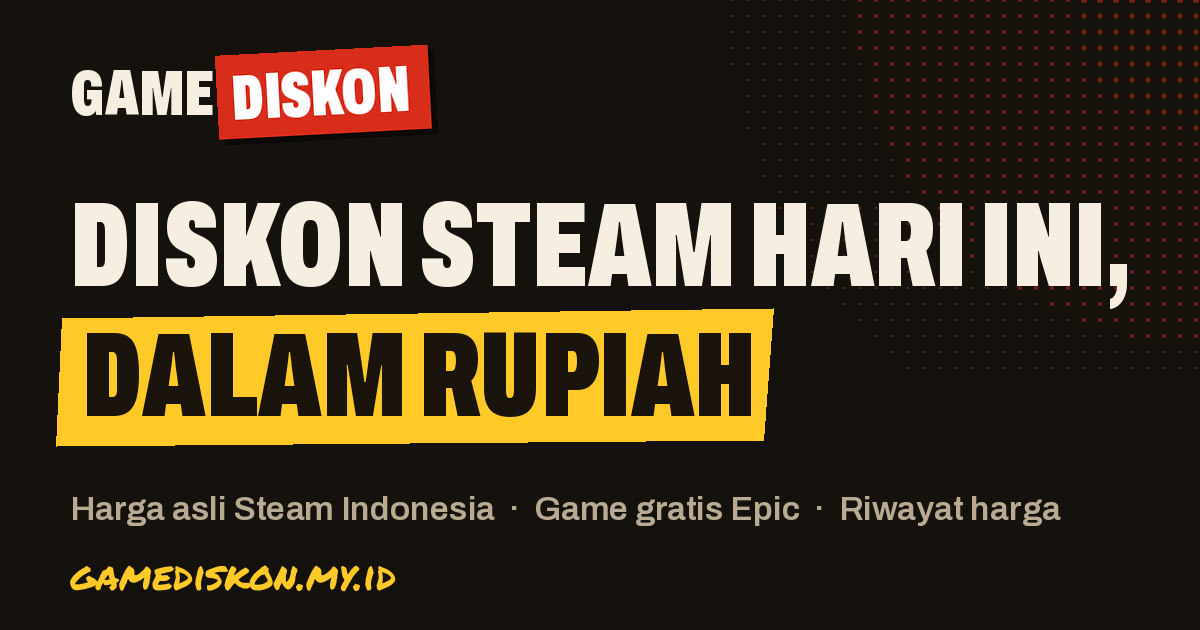
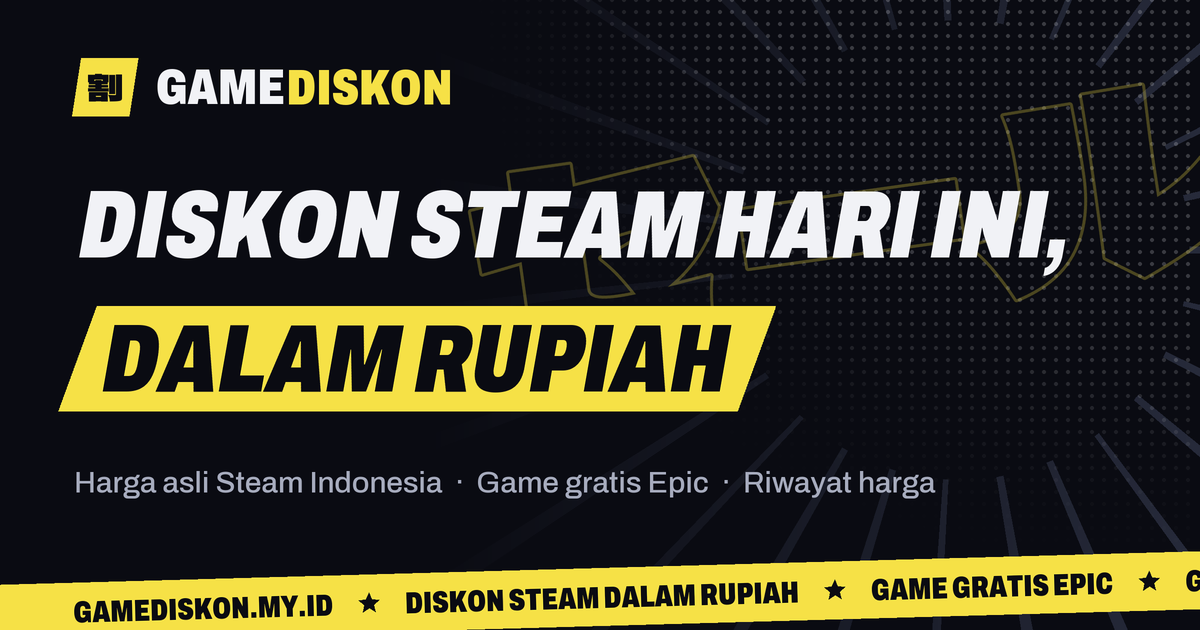
Add files via upload

diff --git a/aset/buat_merek.py b/aset/buat_merek.py
@@ -1,0 +1,262 @@
+"""
+Membuat gambar merek GameDiskon tema "Shonen Sale":
+- og-gamediskon.png (1200x630, gambar pratinjau saat tautan dibagikan)
+- favicon.ico (16/32/48), icon-192.png, apple-touch-icon.png (180)
+
+Jalankan dari akar repo:  python aset/buat_merek.py
+og-gamediskon.png ditulis ke aset/ dan akar repo; ikon ditulis sebagai base64 ke blok IKON di gaya.py.
+Butuh Pillow >= 10 (bisa membaca .woff2) dan font di aset/ + akar repo.
+"""
+
+import base64
+import io
+import math
+import os
+import re
+
+from PIL import Image, ImageChops, ImageDraw, ImageFilter, ImageFont
+
+REPO = os.path.dirname(os.path.dirname(os.path.abspath(__file__)))
+ASET = os.path.join(REPO, "aset")
+
+# Token warna, sama dengan :root di gaya.py
+TINTA = (10, 11, 18)
+TINTA_2 = (18, 20, 30)
+GARIS = (38, 42, 58)
+PUTIH = (241, 242, 246)
+REDUP = (167, 172, 190)
+KUNING = (246, 225, 70)
+
+S = 2  # gambar dibuat 2x lalu diperkecil supaya tepi miring halus
+
+
+def _cari(nama):
+    for folder in (ASET, REPO):
+        path = os.path.join(folder, nama)
+        if os.path.exists(path):
+            return path
+    raise FileNotFoundError(nama)
+
+
+def archivo(ukuran, tebal=900, lebar=74):
+    f = ImageFont.truetype(_cari("archivo-latin.woff2"), ukuran)
+    f.set_variation_by_axes([tebal, lebar])  # urutan sumbu: Weight, Width
+    return f
+
+
+def dela(ukuran):
+    return ImageFont.truetype(_cari("dela-gothic-jp.woff2"), ukuran)
+
+
+def jajar(x, y, w, h, miring):
+    """Jajar genjang seperti --jajar di CSS (sisi kiri & kanan miring)."""
+    return [(x + miring, y), (x + w, y), (x + w - miring, y + h), (x, y + h)]
+
+
+def bintang(draw, cx, cy, r, warna):
+    """Bintang lima sudut berpusat di (cx, cy)."""
+    titik = []
+    for i in range(10):
+        a = math.radians(-90 + i * 36)
+        rr = r if i % 2 == 0 else r * 0.45
+        titik.append((cx + rr * math.cos(a), cy + rr * math.sin(a)))
+    draw.polygon(titik, fill=warna)
+
+
+def miringkan(img, derajat):
+    """skewX ke kanan (atas bergeser ke kanan), pusat di tengah tinggi."""
+    k = math.tan(math.radians(derajat))
+    w, h = img.size
+    tambah = int(abs(k) * h) + 2
+    hasil = Image.new(img.mode, (w + tambah, h), (0, 0, 0, 0))
+    hasil.paste(img, (tambah // 2, 0))
+    return hasil.transform(hasil.size, Image.AFFINE, (1, k, -k * h / 2, 0, 1, 0), Image.BICUBIC)
+
+
+def teks_lapis(teks, font, warna, pad=0):
+    """Teks di lapisan transparan seukuran kotaknya."""
+    kiri, atas, kanan, bawah = font.getbbox(teks)
+    img = Image.new("RGBA", (kanan - kiri + pad * 2, bawah - atas + pad * 2), (0, 0, 0, 0))
+    ImageDraw.Draw(img).text((pad - kiri, pad - atas), teks, font=font, fill=warna)
+    return img
+
+
+def teks_garis(teks, font, warna, tebal):
+    """Hanya garis luar huruf (seperti -webkit-text-stroke dengan isi transparan)."""
+    kiri, atas, kanan, bawah = font.getbbox(teks, stroke_width=tebal)
+    ukuran = (kanan - kiri + 4, bawah - atas + 4)
+    luar = Image.new("L", ukuran, 0)
+    dalam = Image.new("L", ukuran, 0)
+    xy = (2 - kiri, 2 - atas)
+    ImageDraw.Draw(luar).text(xy, teks, font=font, fill=255, stroke_width=tebal, stroke_fill=255)
+    ImageDraw.Draw(dalam).text(xy, teks, font=font, fill=255)
+    topeng = ImageChops.subtract(luar, dalam)
+    alfa = warna[3] if len(warna) > 3 else 255
+    img = Image.new("RGBA", ukuran, tuple(warna[:3]) + (0,))
+    img.putalpha(topeng.point(lambda v: v * alfa // 255))
+    return img
+
+
+# ---------- Gambar pratinjau 1200x630 ----------
+def buat_og():
+    W, H = 1200 * S, 630 * S
+    img = Image.new("RGBA", (W, H), TINTA + (255,))
+
+    # Garis kecepatan dari titik di kanan, memudar ke kiri
+    garis = Image.new("RGBA", (W, H), (0, 0, 0, 0))
+    d = ImageDraw.Draw(garis)
+    cx, cy = 960 * S, 250 * S
+    for i in range(54):
+        sudut = i * (360 / 54) + (7 if i % 2 else 0)
+        lebar = 0.9 if i % 3 else 1.6
+        r1, r2 = 230 * S, 1100 * S
+        a1, a2 = math.radians(sudut - lebar / 2), math.radians(sudut + lebar / 2)
+        d.polygon([(cx + r1 * math.cos(a1), cy + r1 * math.sin(a1)), (cx + r2 * math.cos(a1), cy + r2 * math.sin(a1)),
+                   (cx + r2 * math.cos(a2), cy + r2 * math.sin(a2)), (cx + r1 * math.cos(a2), cy + r1 * math.sin(a2))],
+                  fill=GARIS + (255,))
+    pudar = Image.linear_gradient("L").rotate(90, expand=True).resize((W, H))  # kiri gelap -> kanan terang
+    pudar = pudar.point(lambda v: max(0, (v - 90)) * 255 // 165)
+    garis.putalpha(ImageChops.multiply(garis.getchannel("A"), pudar))
+    img.alpha_composite(garis)
+
+    # Screentone titik-titik di pojok kanan atas
+    tone = Image.new("RGBA", (W, H), (0, 0, 0, 0))
+    d = ImageDraw.Draw(tone)
+    jarak, r = 12 * S, 1.6 * S
+    for y in range(0, H, jarak):
+        for x in range(0, W, jarak):
+            d.ellipse([x - r, y - r, x + r, y + r], fill=PUTIH + (52,))
+    arah = Image.new("L", (W, H), 0)
+    ImageDraw.Draw(arah).ellipse([620 * S, -420 * S, 1700 * S, 420 * S], fill=255)
+    arah = arah.filter(ImageFilter.GaussianBlur(70 * S))
+    tone.putalpha(ImageChops.multiply(tone.getchannel("A"), arah))
+    img.alpha_composite(tone)
+
+    # Katakana besar セール bergaris luar sebagai efek suara
+    sfx = teks_garis("セール", dela(250 * S), KUNING + (70,), 3 * S).rotate(8, expand=True, resample=Image.BICUBIC)
+    img.alpha_composite(sfx, (W - sfx.width + 40 * S, 70 * S))
+
+    # Logo: label kuning 割 + GAMEDISKON
+    x0, y0 = 72 * S, 58 * S
+    d = ImageDraw.Draw(img)
+    d.polygon(jajar(x0, y0, 66 * S, 58 * S, 9 * S), fill=KUNING)
+    hanko = teks_lapis("割", dela(36 * S), TINTA)
+    img.alpha_composite(hanko, (x0 + (66 * S - hanko.width) // 2, y0 + (58 * S - hanko.height) // 2 + S))
+    f_logo = archivo(50 * S)
+    game = teks_lapis("GAME", f_logo, PUTIH)
+    diskon = teks_lapis("DISKON", f_logo, KUNING)
+    ty = y0 + (58 * S - game.height) // 2
+    img.alpha_composite(game, (x0 + 84 * S, ty))
+    img.alpha_composite(diskon, (x0 + 84 * S + game.width + 2 * S, ty))
+
+    # Judul miring, baris kedua di pita kuning
+    f_judul = archivo(96 * S)
+    b1 = miringkan(teks_lapis("DISKON STEAM HARI INI,", f_judul, PUTIH, pad=4 * S), 10)
+    img.alpha_composite(b1, (66 * S, 186 * S))
+
+    b2 = teks_lapis("DALAM RUPIAH", f_judul, TINTA, pad=4 * S)
+    pita = Image.new("RGBA", (b2.width + 64 * S, b2.height + 30 * S), (0, 0, 0, 0))
+    ImageDraw.Draw(pita).polygon(jajar(0, 0, pita.width, pita.height, 20 * S), fill=KUNING)
+    pita.alpha_composite(b2, (32 * S, 15 * S))
+    pita = miringkan(pita, 10)
+    img.alpha_composite(pita, (58 * S, 306 * S))
+
+    # Keterangan
+    f_ket = archivo(30 * S, tebal=500, lebar=100)
+    ket = "Harga asli Steam Indonesia  ·  Game gratis Epic  ·  Riwayat harga"
+    d.text((74 * S, 466 * S), ket, font=f_ket, fill=REDUP)
+
+    # Marquee kuning miring di bawah, berisi alamat situs (bintang digambar: Archivo tidak punya ★)
+    f_mq = archivo(30 * S)
+    isi = ["GAMEDISKON.MY.ID", "DISKON STEAM DALAM RUPIAH", "GAME GRATIS EPIC"]
+    mq = Image.new("RGBA", (W + 200 * S, 58 * S), KUNING + (255,))
+    dm = ImageDraw.Draw(mq)
+    x, i = 172 * S, 0
+    while x < mq.width:
+        dm.text((x, 30 * S), isi[i % len(isi)], font=f_mq, fill=TINTA, anchor="lm")
+        x += f_mq.getlength(isi[i % len(isi)]) + 36 * S
+        bintang(dm, x, 29 * S, 11 * S, TINTA)
+        x += 36 * S
+        i += 1
+    mq = mq.rotate(1.6, expand=True, resample=Image.BICUBIC)
+    img.alpha_composite(mq, (-100 * S, 548 * S))
+
+    return img.convert("RGB").resize((1200, 630), Image.LANCZOS)
+
+
+# ---------- Ikon ----------
+def ikon_tab(px):
+    """Favicon kecil: blok kuning penuh, pojok kanan atas dipotong, huruf 割 gelap."""
+    B = px * 8
+    img = Image.new("RGBA", (B, B), (0, 0, 0, 0))
+    d = ImageDraw.Draw(img)
+    p = B * 0.2
+    d.polygon([(0, 0), (B - p, 0), (B, p), (B, B), (0, B)], fill=KUNING)
+    huruf = teks_lapis("割", dela(int(B * 0.78)), TINTA)
+    img.alpha_composite(huruf, ((B - huruf.width) // 2, (B - huruf.height) // 2 + B // 40))
+    return img.resize((px, px), Image.LANCZOS)
+
+
+def ikon_app(px):
+    """Ikon besar (Android/iOS): latar malam, label kuning miring berisi 割, garis kecepatan tipis."""
+    B = px * 4
+    img = Image.new("RGBA", (B, B), TINTA + (255,))
+    d = ImageDraw.Draw(img)
+    c = B / 2
+    for i in range(36):
+        a = math.radians(i * 10 + 5)
+        a1, a2 = a - 0.02, a + 0.02
+        d.polygon([(c + B * .36 * math.cos(a1), c + B * .36 * math.sin(a1)), (c + B * math.cos(a1), c + B * math.sin(a1)),
+                   (c + B * math.cos(a2), c + B * math.sin(a2)), (c + B * .36 * math.cos(a2), c + B * .36 * math.sin(a2))],
+                  fill=GARIS)
+    w, h = B * 0.64, B * 0.56
+    d.polygon(jajar((B - w) / 2, (B - h) / 2, w, h, B * 0.07), fill=KUNING)
+    huruf = teks_lapis("割", dela(int(B * 0.4)), TINTA)
+    img.alpha_composite(huruf, ((B - huruf.width) // 2, (B - huruf.height) // 2 + B // 80))
+    return img.resize((px, px), Image.LANCZOS).convert("RGB")
+
+
+def _png(img):
+    buf = io.BytesIO()
+    img.save(buf, "PNG", optimize=True)
+    return buf.getvalue()
+
+
+def buat_ikon():
+    ico = io.BytesIO()
+    ikon_tab(48).save(ico, "ICO", sizes=[(16, 16), (32, 32), (48, 48)],
+                      append_images=[ikon_tab(16), ikon_tab(32)])
+    return {
+        "favicon.ico": ico.getvalue(),
+        "icon-192.png": _png(ikon_app(192)),
+        "apple-touch-icon.png": _png(ikon_app(180)),
+    }
+
+
+def tulis_ke_gaya(ikon):
+    """Ganti isi blok IKON = {...} di gaya.py dengan ikon baru (base64, 100 huruf per baris)."""
+    path = os.path.join(REPO, "gaya.py")
+    sumber = open(path, encoding="utf-8", newline="").read()
+    nl = "\r\n" if "\r\n" in sumber else "\n"   # pertahankan akhir baris file
+    bagian = []
+    for nama, isi in ikon.items():
+        b64 = base64.b64encode(isi).decode()
+        baris = nl.join(f'    "{b64[i:i + 100]}"' for i in range(0, len(b64), 100))
+        bagian.append(f'    "{nama}": ({nl}{baris}{nl}    ),')
+    blok = "IKON = {" + nl + nl.join(bagian) + nl + "}" + nl
+    baru, n = re.subn(r"IKON = \{\r?\n.*?\r?\n\}\r?\n", lambda _: blok, sumber, count=1, flags=re.S)
+    if n != 1:
+        raise SystemExit("Blok IKON di gaya.py tidak ditemukan")
+    with open(path, "w", encoding="utf-8", newline="") as f:
+        f.write(baru)
+
+
+if __name__ == "__main__":
+    og = buat_og()
+    for path in (os.path.join(ASET, "og-gamediskon.png"), os.path.join(REPO, "og-gamediskon.png")):
+        og.save(path, "PNG", optimize=True)
+    ikon = buat_ikon()
+    tulis_ke_gaya(ikon)
+    for nama, isi in ikon.items():
+        print(f"{nama}: {len(isi)} byte")
+    print("og-gamediskon.png:", os.path.getsize(os.path.join(ASET, "og-gamediskon.png")), "byte")
